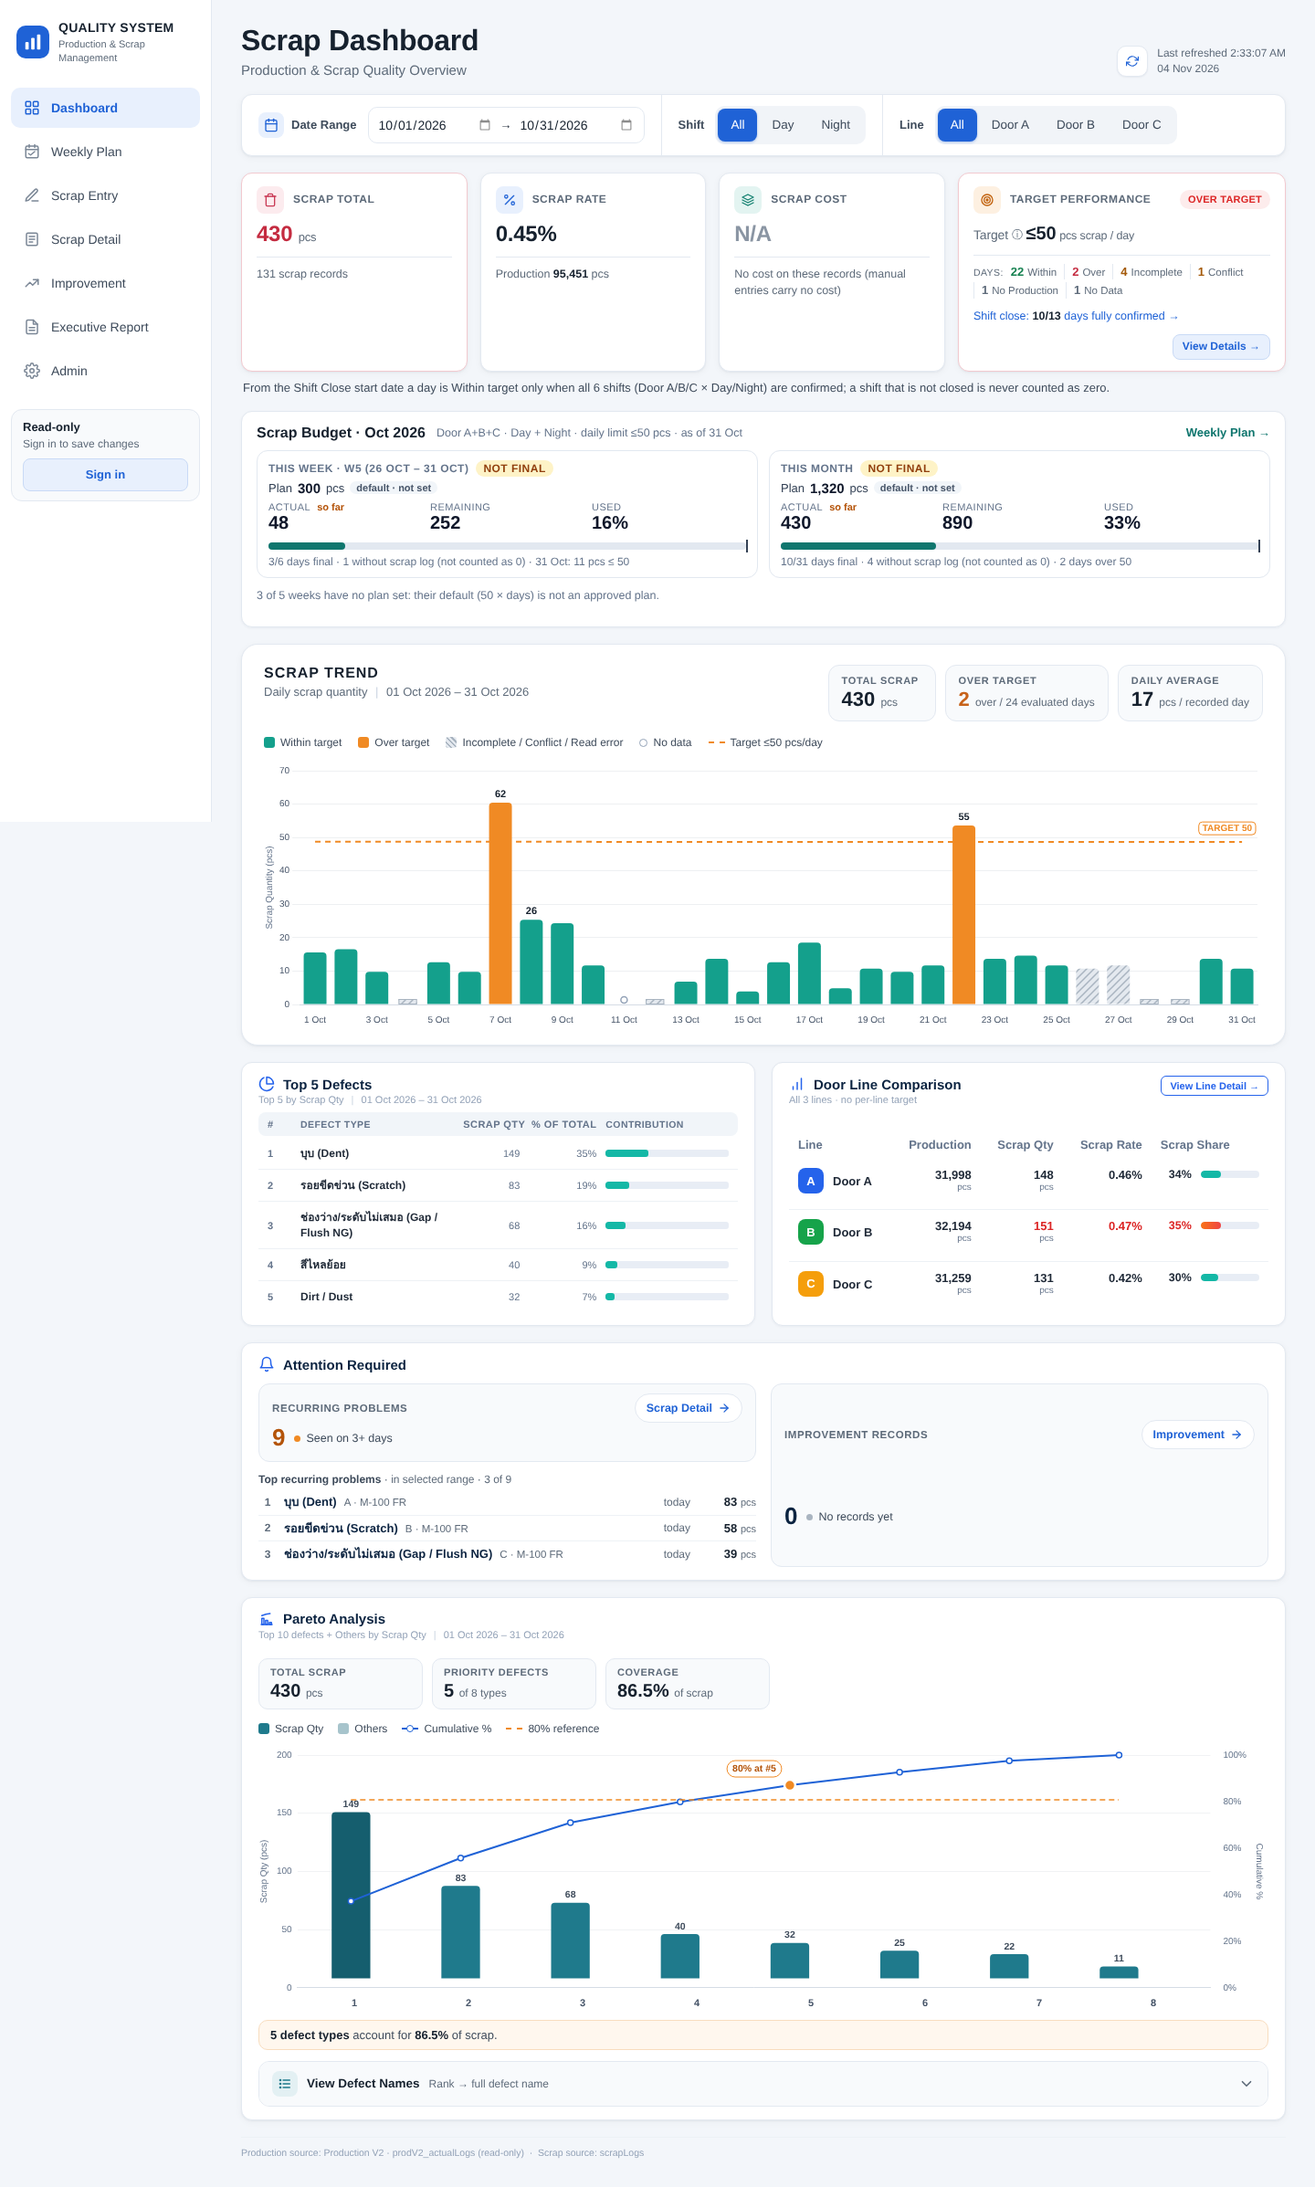
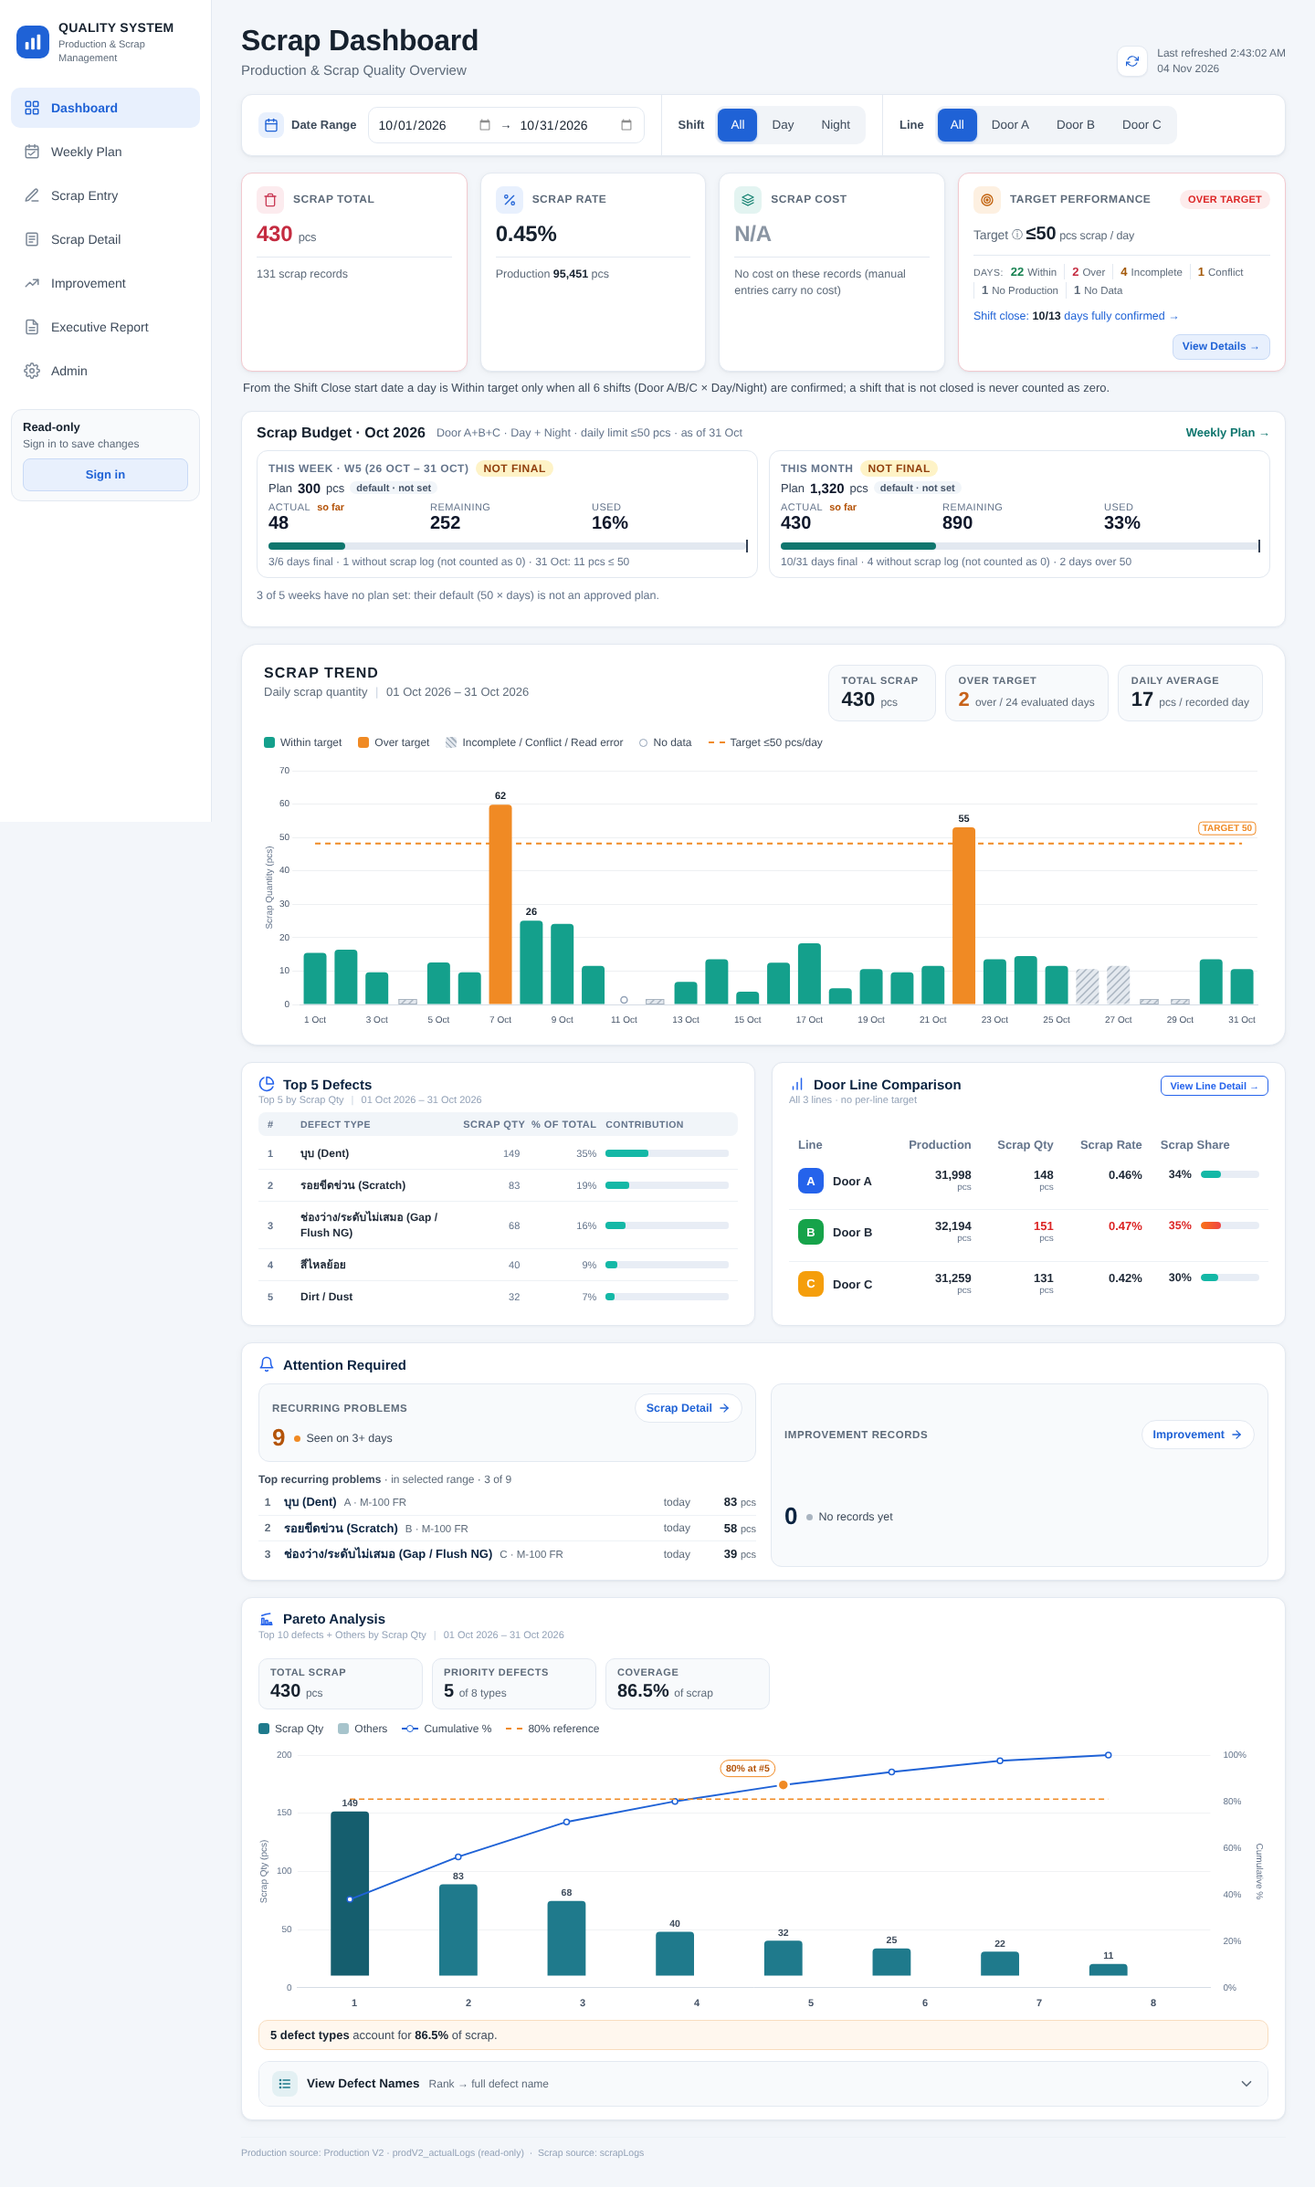
Freshness cap for re-used reads (5 minutes) + before/after read report
- QD_VIEW_CACHE_MINUTES = 5: Dashboard filter re-use, Scrap Budget card cache and
  weekly-plan.html month / goal cache are used for at most 5 minutes; Refresh /
  Reload / reopening always read fresh
- release-readiness e2e: freshness (save elsewhere -> filter keeps data and time,
  Refresh shows it, after 5 minutes a filter reads it; Weekly Plan Reload / age),
  Weekly Plan screenshots at 1024 / 820 / 390
- docs/release-readiness/generated/read-cost-before-after.md (f6e2ba9 vs now)

Claude-Session: https://claude.ai/code/session_014KBFAt31cU9LTeC66YvZS8

diff --git a/tests/e2e/release-readiness.e2e.test.js b/tests/e2e/release-readiness.e2e.test.js
@@ -296,14 +296,16 @@ describe('2. weekly-plan.html — every important state', () => {
     await context.close();
   });
 
-  it('phone (390 px): full page, no horizontal scroll', async () => {
-    const { page, context } = await newPage(390);
-    await planOpen(page, M.ym, '&week=W5');
-    const w = await page.evaluate(() => document.documentElement.scrollWidth - document.documentElement.clientWidth);
-    assert.ok(w <= 1);
-    await shot(page, 'weekly-plan-full-390');
-    await context.close();
-  });
+  for (const width of [1024, 820, 390]) {
+    it(`${width} px (tablet / phone): full page, no horizontal scroll`, async () => {
+      const { page, context } = await newPage(width);
+      await planOpen(page, M.ym, '&week=W5');
+      const w = await page.evaluate(() => document.documentElement.scrollWidth - document.documentElement.clientWidth);
+      assert.ok(w <= 1);
+      await shot(page, `weekly-plan-full-${width}`);
+      await context.close();
+    });
+  }
 });
 
 describe('3. Default plan is never shown as a confirmed plan', () => {
@@ -465,6 +467,71 @@ describe('4. Firestore read cost', () => {
     const goal2 = await reads(page);
     record('Weekly Plan', 'open the goal again', goal2, 'kept: nothing read');
     assert.equal(sum(goal2).gets, 0);
+    await context.close();
+  });
+});
+
+describe('5. Freshness: re-used data never hides a save or an import for long', () => {
+  // A save / import made elsewhere (here: written straight into the emulator, as another tab or the
+  // Excel import would) must show with Refresh at once, and with any action after QD_VIEW_CACHE_MINUTES.
+  const addLog = (id, qty) => env.withSecurityRulesDisabled(async ctx => {
+    const { doc, setDoc } = require('firebase/firestore');
+    await setDoc(doc(ctx.firestore(), 'scrapLogs', id), { date: M.d(5), shift: 'DAY', line: 'A', model: 'M', defectType: 'Burr', rootCause: '', scrapQty: qty, remark: '', createdAt: 1 });
+  });
+  const total = page => page.evaluate(() => Number(document.getElementById('kpiScrap').textContent.replace(/[^\d]/g, '')));
+  const cardActual = page => page.evaluate(() => window.__qdPlanCard.month.actual);
+  const ageBy = (page, minutes) => page.evaluate(m => { const real = Date.now.bind(Date); const off = m * 60000 + (window.__qdClockOff || 0); window.__qdClockOff = off; Date.now = () => real() + off; }, minutes);
+
+  it('Dashboard: filter keeps the loaded data and its time; Refresh reads the new log; after 5 minutes a filter reads fresh', async () => {
+    const { page, context } = await newPage();
+    await dashOpen(page);
+    await dashRange(page, M.d(1), M.d(M.nDays));
+    const t0 = await total(page), c0 = await cardActual(page), stamp0 = await page.textContent('#lastUpdated');
+    await addLog('fresh1', 7);
+    // filter changes: same (loaded) numbers and the same "Last refreshed" — nothing claims to be newer than it is
+    await page.click('#lineFilter [data-line="A"]'); await page.waitForTimeout(800);
+    await page.click('#lineFilter [data-line="all"]'); await page.waitForTimeout(800);
+    assert.equal(await total(page), t0); assert.equal(await page.textContent('#lastUpdated'), stamp0);
+    // Refresh: really reads again — the new log is in the KPI and in the card; the time changes
+    await page.evaluate(() => { window.__qdPlanCard = null; });
+    await page.waitForTimeout(1100);
+    await page.click('#refreshBtn'); await dashSettled(page, M.ym);
+    assert.equal(await total(page), t0 + 7, 'Refresh shows the new log');
+    assert.equal(await cardActual(page), c0 + 7, 'the card too');
+    assert.notEqual(await page.textContent('#lastUpdated'), stamp0);
+    // older than QD_VIEW_CACHE_MINUTES: a plain filter change reads fresh
+    await addLog('fresh2', 3);
+    await ageBy(page, 6);
+    await resetReads(page);
+    await page.evaluate(() => { window.__qdPlanCard = null; });
+    await page.click('#shiftFilter [data-shift="DAY"]'); await dashSettled(page, M.ym);
+    await page.click('#shiftFilter [data-shift="all"]'); await page.waitForTimeout(800);
+    assert.ok((await reads(page)).scrapLogs.gets >= 1, 'read again after 5 minutes');
+    assert.equal(await total(page), t0 + 10);
+    await context.close();
+    // opening the page again (e.g. back from Scrap Entry after a save) always reads fresh
+    const again = await newPage();
+    await dashOpen(again.page); await dashRange(again.page, M.d(1), M.d(M.nDays));
+    assert.equal(await total(again.page), t0 + 10);
+    await again.context.close();
+  });
+
+  it('Weekly Plan: back to a month re-uses data (≤ 5 min); Reload and older data read the new log', async () => {
+    const { page, context } = await newPage();
+    await planOpen(page, M.ym);
+    const a0 = await page.evaluate(() => window.__qdWeeklyPlan.month.actual);
+    await addLog('fresh3', 4);
+    await page.click('#wpNext'); await planSettled(page, M.curYm);
+    await page.click('#wpPrev'); await planSettled(page, M.ym);
+    assert.equal(await page.evaluate(() => window.__qdWeeklyPlan.month.actual), a0, 're-used (within 5 minutes)');
+    await page.evaluate(() => { window.__qdWeeklyPlan.month = null; });
+    await page.click('#wpReload'); await planSettled(page, M.ym);
+    assert.equal(await page.evaluate(() => window.__qdWeeklyPlan.month.actual), a0 + 4, 'Reload reads the new log');
+    await addLog('fresh4', 2);
+    await ageBy(page, 6);
+    await page.click('#wpNext'); await planSettled(page, M.curYm);
+    await page.click('#wpPrev'); await planSettled(page, M.ym);
+    assert.equal(await page.evaluate(() => window.__qdWeeklyPlan.month.actual), a0 + 6, 'older than 5 minutes: read again');
     await context.close();
   });
 });

diff --git a/js/weekly-plan-page.js b/js/weekly-plan-page.js
@@ -48,8 +48,8 @@
   }
   const chip = (map, k) => { const [t, c] = map[k] || [k, 'neutral']; return `<span class="wp-chip ${c}" data-status="${esc(k)}">${esc(t)}</span>`; };
 
-  // cache: per month, what was read (scrap, plans, closes, goal) — going back to a month reads
-  // nothing again; Reload reads that month fresh. Reopening the page starts empty.
+  // cache: per month, what was read (scrap, plans, closes, goal) — going back to a month within
+  // QD_VIEW_CACHE_MINUTES reads nothing again; older data, Reload and reopening the page read fresh.
   const state = { ym: null, week: null, asOf: null, data: null, month: null, improveScope: 'week', reviews: null, goal: null, loadSeq: 0, cache: new Map(), goals: new Map() };
   window.__qdWeeklyPlan = state;   // read by the tests
 
@@ -78,12 +78,13 @@
     const seq = ++state.loadSeq;
     const ym = state.ym, asOf = asOfFor(ym), db = window.qdDb;
     if (force) { state.cache.delete(ym); state.goals.delete(ym); }
-    state.asOf = asOf; state.goal = state.goals.get(ym) || null;
+    state.asOf = asOf; state.goal = state.goals.get(ym) || null;   // (age checked when the goal is opened)
     $('wpGoalBody').innerHTML = ''; if ($('wpGoal').open) $('wpGoal').open = false;   // reopening shows the kept goal
     $('wpMonth').innerHTML = '<div class="wp-loading">Loading…</div>';
     if (window.qdFirebaseError || !db) { banner('error', '⚠ ' + (window.qdFirebaseError || 'Not connected to Firestore.')); return; }
     const hit = state.cache.get(ym);
-    if (hit && hit.asOf === asOf) { state.data = hit.data; finishLoad(seq); return; }
+    const maxAge = (typeof QD_VIEW_CACHE_MINUTES === 'number' ? QD_VIEW_CACHE_MINUTES : 5) * 60000;
+    if (hit && hit.asOf === asOf && Date.now() - hit.at < maxAge) { state.data = hit.data; finishLoad(seq); return; }
     const from = U().monthStart(ym);
     const elapsed = asOf >= from;
     const [scrap, plans] = await Promise.all([
@@ -95,7 +96,7 @@
     const close = await WeeklyPlanData.closeStatus(db, dates, scrap.records, !!scrap.error, null);
     if (seq !== state.loadSeq) return;
     state.data = { scrap, plans, close };
-    if (!scrap.error && !close.failed && !plans.error) state.cache.set(ym, { asOf, data: state.data });   // never keep a failed read
+    if (!scrap.error && !close.failed && !plans.error) state.cache.set(ym, { asOf, at: Date.now(), data: state.data });   // never keep a failed read
     finishLoad(seq);
   }
   function finishLoad(seq) {
@@ -274,7 +275,8 @@
 
   // ---- reduction goal (previous month, loaded on demand) ---------------------------------
   async function loadGoal() {
-    if (state.goal && state.goal.forYm === state.ym) { renderGoal(); return; }
+    const maxAge = (typeof QD_VIEW_CACHE_MINUTES === 'number' ? QD_VIEW_CACHE_MINUTES : 5) * 60000;
+    if (state.goal && state.goal.forYm === state.ym && Date.now() - state.goal.at < maxAge) { renderGoal(); return; }
     if (!state.month) return;
     const seq = state.loadSeq, db = window.qdDb, pym = U().prevMonth(state.ym);
     $('wpGoalBody').innerHTML = '<div class="wp-loading">Loading the previous month…</div>';
@@ -283,7 +285,7 @@
     const close = await WeeklyPlanData.closeStatus(db, U().datesBetween(from, to), scrap.records, !!scrap.error, null);
     if (seq !== state.loadSeq) return;
     const prev = C().buildMonth({ ym: pym, asOf: to, records: scrap.records, scrapReadFailed: !!scrap.error, closeFrom: close.from, closeUnits: close.units, closeReadFailed: close.failed, overrides: {}, dailyTarget: DAILY_TARGET_PCS });
-    state.goal = Object.assign(C().reductionGoal({ prev, current: state.month, goal: QD_MONTHLY_REDUCTION_GOAL }), { forYm: state.ym });
+    state.goal = Object.assign(C().reductionGoal({ prev, current: state.month, goal: QD_MONTHLY_REDUCTION_GOAL }), { forYm: state.ym, at: Date.now() });
     if (!scrap.error && !close.failed) state.goals.set(state.ym, state.goal);
     renderGoal();
   }

diff --git a/js/plan-card.js b/js/plan-card.js
@@ -10,9 +10,9 @@
  *                 missing days (1st … From − 1) are read, in one query.
  * Shift Close: the close context the Dashboard loaded (only missing close-required dates are read).
  * Plans: one query (<= 6 documents). Details live on weekly-plan.html.
- * Cache: what the card reads ITSELF (plans, the missing days, missing close dates) is kept for the
- * page session, so changing the Line / Shift filter or going back to a date reads nothing again;
- * the Refresh button (PlanCard.invalidate) and reopening the page read it fresh.
+ * Cache: what the card reads ITSELF (plans, the missing days, missing close dates) is kept for at
+ * most QD_VIEW_CACHE_MINUTES, so changing the Line / Shift filter or going back to a date reads
+ * nothing again; the Refresh button (PlanCard.invalidate) and reopening the page read it fresh.
  * Exposed as window.PlanCard.
  * ------------------------------------------------------------------
  */
@@ -28,13 +28,16 @@
   const chip = k => { const [t, c] = STATUS[k] || [k, 'neutral']; return `<span class="wp-chip ${c}" data-status="${k}">${t}</span>`; };
   const todayBkk = () => new Date(Date.now() + 7 * 3600000).toISOString().slice(0, 10);
   let cache = new Map();
+  const cacheMs = () => (typeof QD_VIEW_CACHE_MINUTES === 'number' ? QD_VIEW_CACHE_MINUTES : 5) * 60000;
   const cached = (key, fn) => {
-    if (!cache.has(key)) {
+    const hit = cache.get(key);
+    if (!hit || Date.now() - hit.at >= cacheMs()) {   // older than QD_VIEW_CACHE_MINUTES: read again
       const p = Promise.resolve().then(fn);
-      cache.set(key, p);
-      p.then(v => { if (v && v.error) cache.delete(key); }, () => cache.delete(key));   // never keep a failure
+      const entry = { p, at: Date.now() };
+      cache.set(key, entry);
+      p.then(v => { if (v && v.error && cache.get(key) === entry) cache.delete(key); }, () => { if (cache.get(key) === entry) cache.delete(key); });   // never keep a failure
     }
-    return cache.get(key);
+    return cache.get(key).p;
   };
   function invalidate() { cache = new Map(); }
   const SRC = {

diff --git a/js/dashboard.js b/js/dashboard.js
@@ -55,6 +55,7 @@
   // the same shifts) and that load had no error. Dates changes and Refresh always read fresh.
   let loaded = null;        // { key, ok, productionResult, scrapResult, shiftTargets, closeContext, lookback, imp }
   let reuseNextLoad = false;
+  const cacheMs = () => (typeof QD_VIEW_CACHE_MINUTES === 'number' ? QD_VIEW_CACHE_MINUTES : 5) * 60000;
   let scrapLoadFailed = false;   // a failed scrap read must never look like "scrap = 0" or WITHIN
 
   let trendChart = null;
@@ -159,7 +160,7 @@
     // for those dates (documented); legacy dates read only the active shifts.
     const fetchPlan = TargetEvaluator.productionFetchPlan(dates, activeShifts());
     const loadKey = JSON.stringify([state.dateFrom, state.dateTo, fetchPlan, dates.some(d => TargetEvaluator.ruleFor(d) === 'SHIFT') ? activeShifts() : null]);
-    const reuse = reuseNextLoad && !!loaded && loaded.ok && loaded.key === loadKey;
+    const reuse = reuseNextLoad && !!loaded && loaded.ok && loaded.key === loadKey && Date.now() - loaded.at < cacheMs();
     reuseNextLoad = false;
     let productionResult, scrapResult;
     if (reuse) { productionResult = loaded.productionResult; scrapResult = loaded.scrapResult; }
@@ -208,7 +209,7 @@
     ]);
     if (seq !== renderSeq) return;
     if (!reuse) {
-      loaded = { key: loadKey, productionResult, scrapResult, shiftTargets, closeContext, lookback: null, imp: null,
+      loaded = { key: loadKey, at: Date.now(), productionResult, scrapResult, shiftTargets, closeContext, lookback: null, imp: null,
         ok: !scrapResult.error && productionResult.errors.length === 0 && !closeContext.failed && !(shiftTargets.failedShifts || []).length };
     }
     if (closeContext.failed && !scrapLoadFailed && productionResult.errors.length === 0) {

diff --git a/js/config.js b/js/config.js
@@ -100,6 +100,11 @@ const QD_WEEKLY_REVIEW_COLLECTION = "scrapWeeklyReviews";
 const QD_MONTHLY_REDUCTION_GOAL = 0.5;
 // "Improve" on weekly-plan.html: Top N defects, all lines together (one row per defect).
 const QD_IMPROVE_TOP_N = 5;
+// Read re-use (release readiness): a filter change on the Dashboard, the Scrap Budget card and
+// weekly-plan.html re-use data they read at most this many minutes ago; older data is read again.
+// Refresh / Reload (and opening a page) always read fresh, so a save or import made elsewhere
+// shows at the latest after this time, or at once with Refresh.
+const QD_VIEW_CACHE_MINUTES = 5;
 const QD_EMULATOR = {
   projectId: "demo-quality-dashboard",   // "demo-" projects exist only in the emulator
   firestoreHost: "127.0.0.1", firestorePort: 8080,

diff --git a/index.html b/index.html
@@ -321,7 +321,7 @@
   </main>
 </div>
 
-<script src="js/config.js?v=20261103-p10"></script>
+<script src="js/config.js?v=20261104-rr2"></script>
 <script src="js/firebase-init.js?v=20261103-p8b"></script>
 <script src="js/qd-auth.js?v=20261102-p4"></script>
 <script src="js/data-adapter.js?v=20261015-3"></script>
@@ -333,7 +333,7 @@
 <script src="js/improvement-adapter.js?v=20261103-p8"></script>
 <script src="js/weekly-plan-calc.js?v=20261104-rr"></script>
 <script src="js/weekly-plan-data.js?v=20261104-rr"></script>
-<script src="js/plan-card.js?v=20261104-rr"></script>
-<script src="js/dashboard.js?v=20261104-rr"></script>
+<script src="js/plan-card.js?v=20261104-rr2"></script>
+<script src="js/dashboard.js?v=20261104-rr2"></script>
 </body>
 </html>

diff --git a/weekly-plan.html b/weekly-plan.html
@@ -110,7 +110,7 @@
   <h3>History (signed-in only)</h3>
   <ol id="wpEditHistory" class="wp-history"></ol>
 </dialog>
-<script src="js/config.js?v=20261103-p10"></script>
+<script src="js/config.js?v=20261104-rr2"></script>
 <script src="js/firebase-init.js?v=20261103-p8b"></script>
 <script src="js/qd-auth.js?v=20261102-p4"></script>
 <script src="js/scrap-adapter.js?v=20261103-p8"></script>
@@ -119,6 +119,6 @@
 <script src="js/target-evaluator.js?v=20261102-p4"></script>
 <script src="js/weekly-plan-calc.js?v=20261104-rr"></script>
 <script src="js/weekly-plan-data.js?v=20261104-rr"></script>
-<script src="js/weekly-plan-page.js?v=20261104-rr"></script>
+<script src="js/weekly-plan-page.js?v=20261104-rr2"></script>
 </body>
 </html>

diff --git a/tests/unit/weekly-plan.test.js b/tests/unit/weekly-plan.test.js
@@ -200,6 +200,7 @@ test('config: weekly plan constants', () => {
   assert.equal(K('QD_WEEKLY_PLAN_HISTORY'), 'history');
   assert.equal(K('QD_WEEKLY_REVIEW_COLLECTION'), 'scrapWeeklyReviews');
   assert.equal(K('QD_IMPROVE_TOP_N'), 5);
+  assert.equal(K('QD_VIEW_CACHE_MINUTES'), 5, 're-used data is at most 5 minutes old');
   assert.equal(K('DAILY_TARGET_PCS'), 50);
   assert.equal(K('QD_AUTH_MODE'), 'off');
   assert.equal(K('QD_CLOSE_REQUIRED_FROM'), null);
